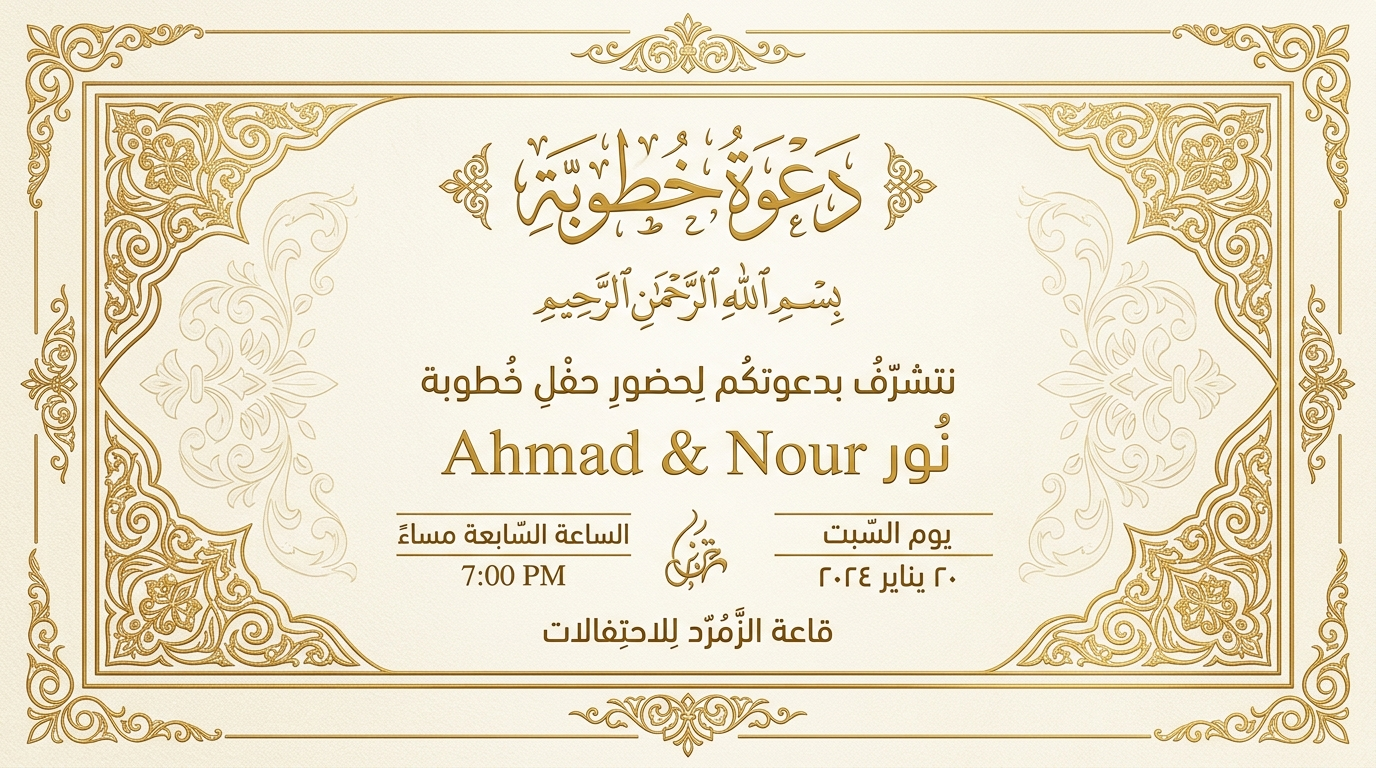
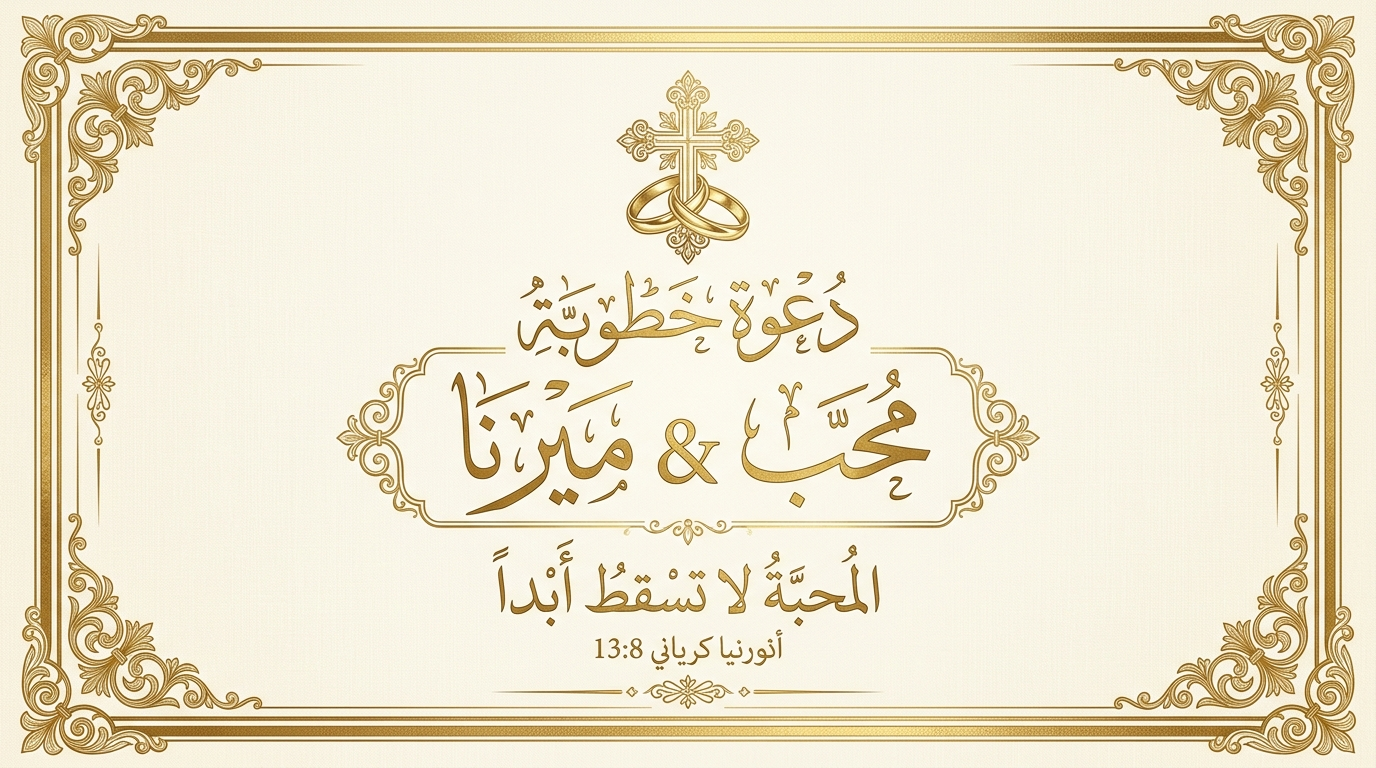
Update website with Christian blessings, Bible verses, and new Christian OG share card

diff --git a/index.html b/index.html
@@ -7,28 +7,28 @@
     <meta name="theme-color" content="#F6EFE0" />
 
     <!-- Primary Meta Tags -->
-    <title>دعوة خطوبة مباركة | محب & ميرنا</title>
-    <meta name="title" content="دعوة خطوبة مباركة | محب & ميرنا" />
+    <title>دعوة خطوبة | محب & ميرنا</title>
+    <meta name="title" content="دعوة خطوبة | محب & ميرنا" />
     <meta
       name="description"
-      content="يتشرف محب وميرنا بدعوتكم لحضور حفل خطوبتهما في قاعات لافي للحفلات ومشاركتهما فرحة هذا اليوم المبارك."
+      content="يتشرف محب وميرنا بدعوتكم لحضور حفل خطوبتهما في قاعات لافي للحفلات ومشاركتهما فرحة هذا اليوم السعيد."
     />
 
     <!-- Open Graph / Facebook / WhatsApp -->
     <meta property="og:type" content="website" />
-    <meta property="og:title" content="دعوة خطوبة مباركة | محب & ميرنا" />
+    <meta property="og:title" content="دعوة خطوبة | محب & ميرنا" />
     <meta
       property="og:description"
-      content="يتشرف محب وميرنا بدعوتكم لحضور حفل خطوبتهما في قاعات لافي للحفلات ومشاركتهما فرحة هذا اليوم المبارك."
+      content="يتشرف محب وميرنا بدعوتكم لحضور حفل خطوبتهما في قاعات لافي للحفلات ومشاركتهما فرحة هذا اليوم السعيد."
     />
     <meta property="og:image" content="/assets/og.jpg" />
 
     <!-- Twitter -->
     <meta property="twitter:card" content="summary_large_image" />
-    <meta property="twitter:title" content="دعوة خطوبة مباركة | محب & ميرنا" />
+    <meta property="twitter:title" content="دعوة خطوبة | محب & ميرنا" />
     <meta
       property="twitter:description"
-      content="يتشرف محب وميرنا بدعوتكم لحضور حفل خطوبتهما في قاعات لافي للحفلات ومشاركتهما فرحة هذا اليوم المبارك."
+      content="يتشرف محب وميرنا بدعوتكم لحضور حفل خطوبتهما في قاعات لافي للحفلات ومشاركتهما فرحة هذا اليوم السعيد."
     />
     <meta property="twitter:image" content="/assets/og.jpg" />
 

diff --git a/src/config.js b/src/config.js
@@ -1,6 +1,8 @@
 export const config = {
   groom: "محب",
   bride: "ميرنا",
+  headerBlessing: "باسم الآب والابن والروح القدس، إله واحد، آمين",
+  bibleVerse: "«مِنْ قِبَلِ الرَّبِّ كَانَ هذَا الأَمْرُ» (تك ٢٤: ٥٠)",
   eventDateISO: "2026-11-12T19:00:00+02:00",
   timezone: "Africa/Cairo",
   venueName: "قاعات لافي للحفلات",
@@ -19,13 +21,13 @@ export const config = {
     {
       year: "العهد",
       title: "خطوات وذكريات",
-      text: "كبرت الأيام وكبرت معها المودة، وصارت كل لحظة تجمعنا دليلاً على أننا خُلقنا لنكمل بعضنا.",
+      text: "كبرت الأيام وكبرت معها المحبة، وصارت كل لحظة تجمعنا دليلاً على بركة ربنا في حياتنا.",
       image: "/assets/moheb-mirna-childhood-standing.jpg",
     },
     {
       year: "يوم التقديم",
       title: "فرحة اللقاء والوعد",
-      text: "في يوم التقديم المبارك، تعاهدنا على المضي معاً في درب واحد، واليوم نعلن خطوبتنا بفرح لا تسعه الدنيا.",
+      text: "في يوم التقديم السعيد، تعاهدنا بنعمة المسيح على المضي معاً في درب واحد، واليوم نعلن خطوبتنا بفرح ومحبة.",
       image: "/assets/couple-proposal.png",
     },
   ],

diff --git a/src/components/Hero.jsx b/src/components/Hero.jsx
@@ -22,7 +22,7 @@ export default function Hero() {
     }
   }, []);
 
-  const photoSrc = config.story?.[0]?.image || '/assets/couple-child.webp';
+  const photoSrc = config.story?.[0]?.image || '/assets/couple-proposal.png';
 
   return (
     <section
@@ -31,14 +31,24 @@ export default function Hero() {
     >
       <GoldFrame className="w-full max-w-md sm:max-w-lg shadow-xl">
         {/* 1. Bismillah */}
-        <motion.p
-          className="text-gold-dark text-sm sm:text-base font-medium mb-2 font-amiri"
+        {/* 1. Christian Blessing & Verse */}
+        <motion.div
+          className="mb-3 space-y-1"
           initial={prefersReducedMotion ? {} : { opacity: 0, y: -10 }}
           animate={{ opacity: 1, y: 0 }}
           transition={{ duration: 0.8, ease: 'easeOut' }}
         >
-          بسم الله الرحمن الرحيم
-        </motion.p>
+          {config.headerBlessing && (
+            <p className="text-gold-dark text-xs sm:text-sm font-medium font-amiri tracking-wide">
+              {config.headerBlessing}
+            </p>
+          )}
+          {config.bibleVerse && (
+            <p className="text-brown-soft text-sm sm:text-base font-semibold font-amiri italic">
+              {config.bibleVerse}
+            </p>
+          )}
+        </motion.div>
 
         {/* 2. Invitation Greeting */}
         <motion.p

diff --git a/src/components/Envelope.jsx b/src/components/Envelope.jsx
@@ -117,8 +117,8 @@ export default function Envelope({ onOpen }) {
               }}
             >
               <div className="w-full h-full border-[0.5px] border-gold/70 p-3 flex flex-col items-center justify-center">
-                <p className="text-gold-dark text-[11px] font-amiri mb-1">
-                  بسم الله الرحمن الرحيم
+                <p className="text-gold-dark text-[10px] sm:text-[11px] font-amiri mb-1">
+                  {config.headerBlessing || 'باسم الآب والابن والروح القدس، إله واحد، آمين'}
                 </p>
                 <div className="flex items-center justify-center gap-1.5 my-1">
                   <span className="h-[0.5px] w-6 bg-gold"></span>

diff --git a/src/components/Countdown.jsx b/src/components/Countdown.jsx
@@ -49,7 +49,7 @@ export default function Countdown() {
       className="countdown-wrapper my-6 w-full flex flex-col items-center justify-center"
       data-testid="countdown"
     >
-      <div className="flex items-center justify-center gap-2 sm:gap-4">
+      <div className="flex items-center justify-center gap-2 sm:gap-4 flex-row-reverse" >
         <DigitBox value={days} label="أيام" />
         <span className="text-gold font-bold text-xl mb-6">:</span>
         <DigitBox value={hours} label="ساعات" />
